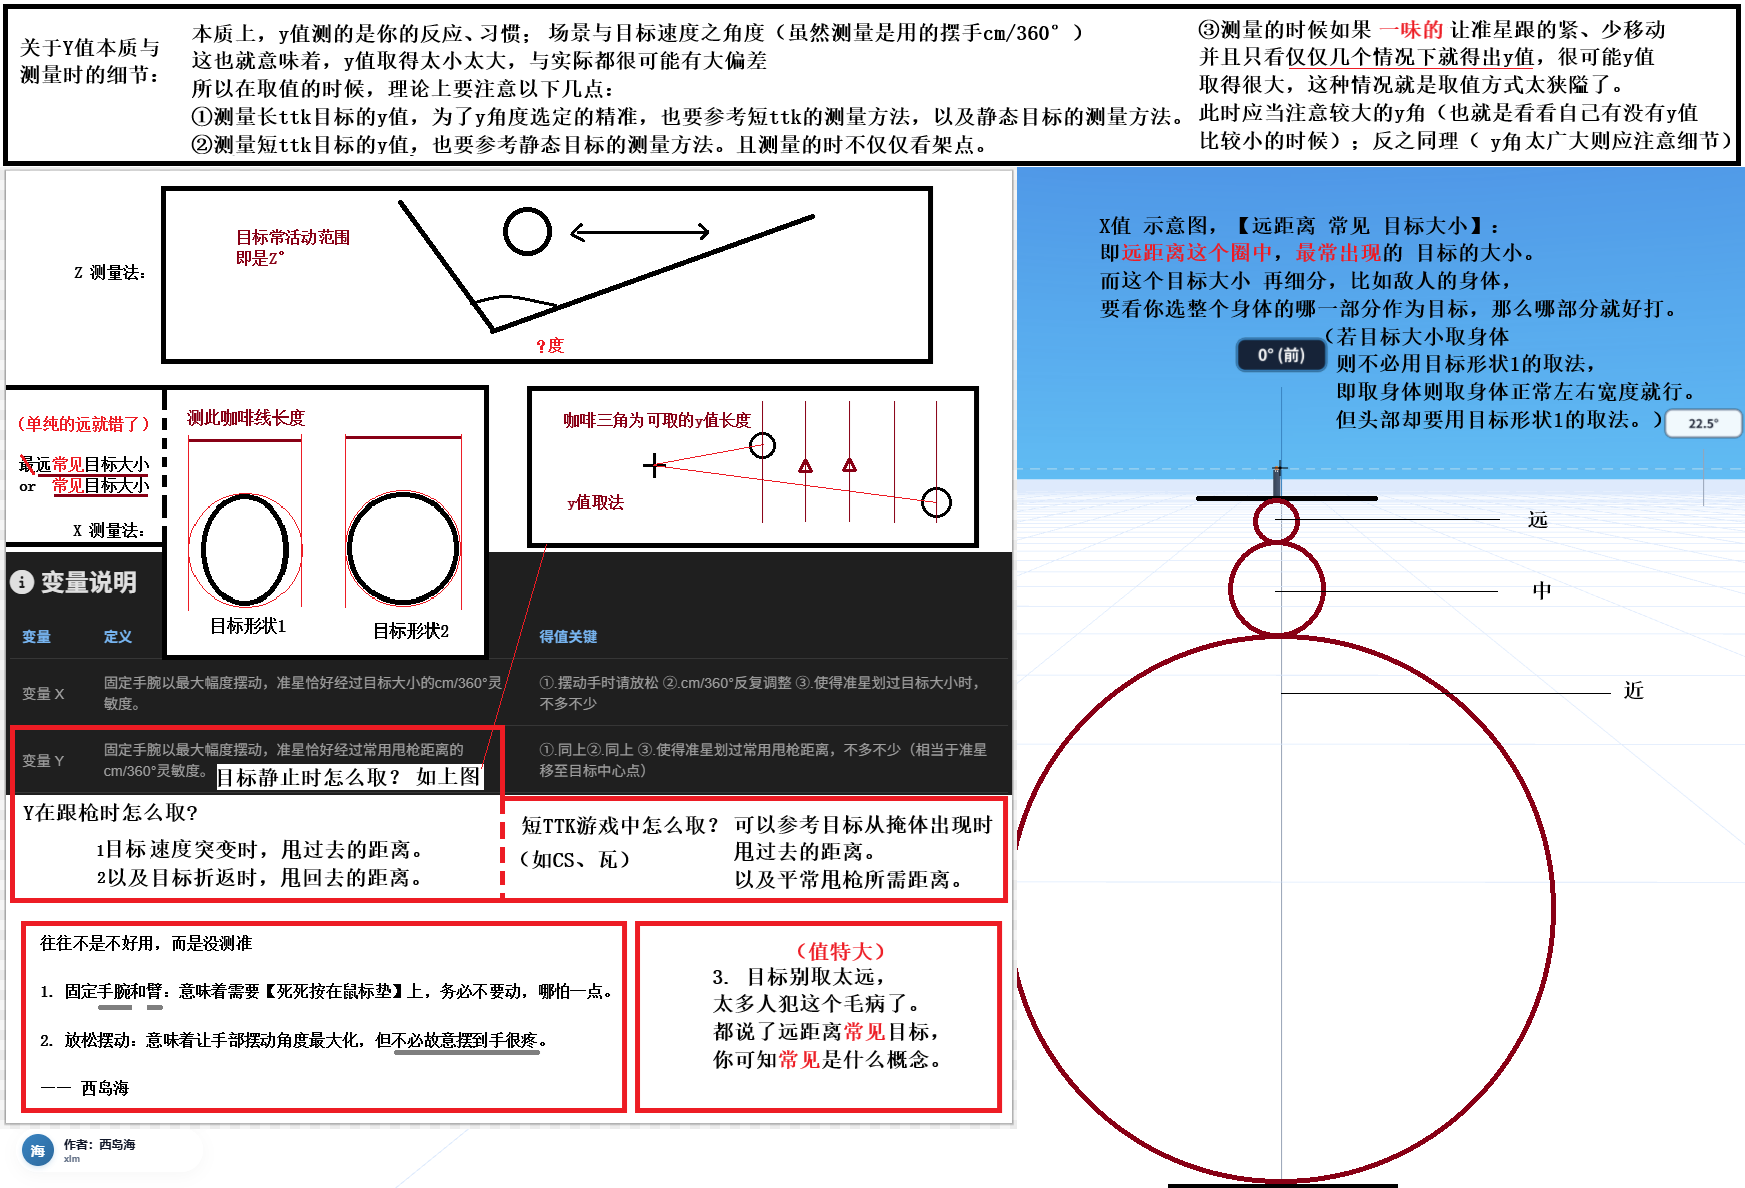
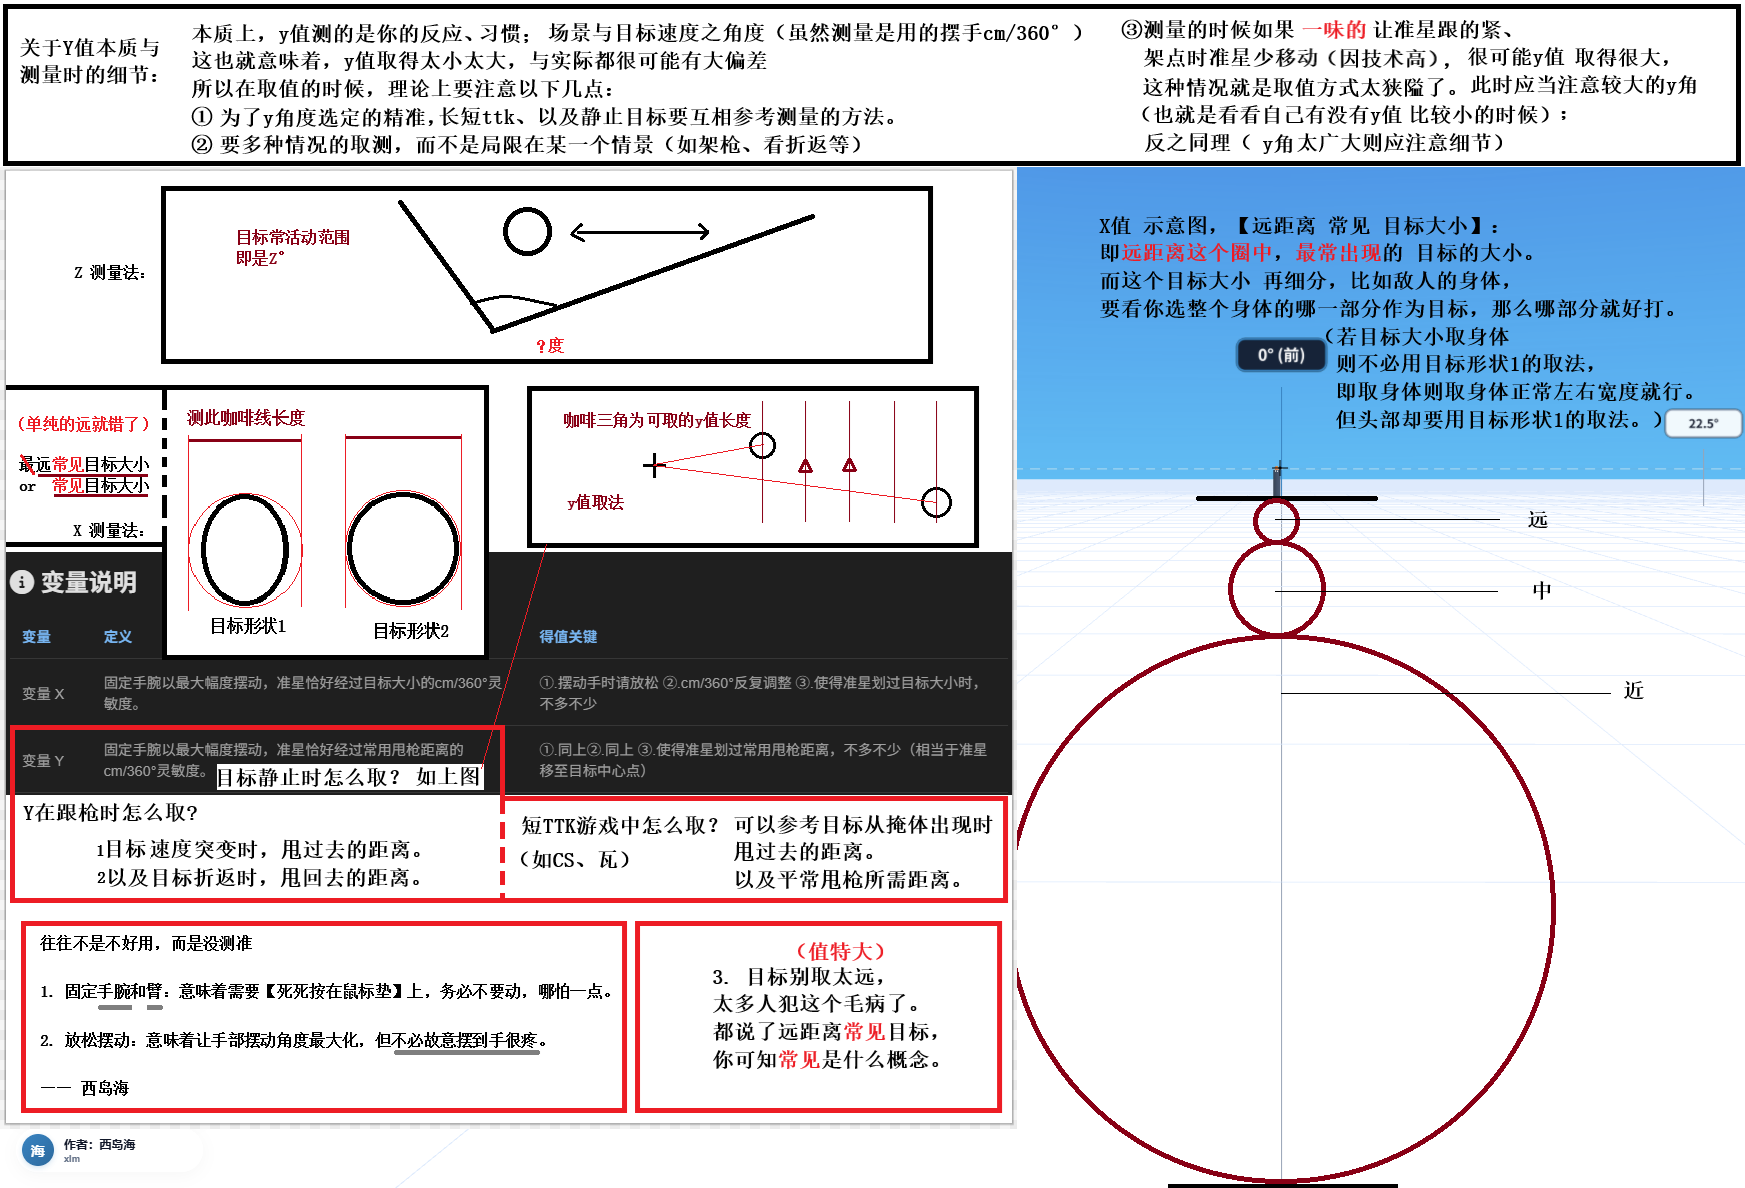
Add files via upload

Changed region(s): [[0.1238, 0.0, 0.9903, 0.1557]]

diff --git a/bdfcaozuo.html b/bdfcaozuo.html
@@ -365,7 +365,7 @@
             <li><span class="badge-sub badge-static">目标静止时</span>准星直接甩到目标中心的距离。</li>
             <li><span class="badge-sub badge-short">短 TTK (CS/瓦)</span>架点（或对枪时），敌人从掩体拉出，向外甩枪修正击杀的距离。</li>
             <li><span class="badge-sub badge-long">长 TTK (Apex/OW)</span>跟枪中目标速度突变或身法折返，准星脱轨后<strong>折返甩回重新吸附</strong>的距离。</li>
-            <li><span>合适的取值：</span>跟枪取法也应参考短TTK和静止，短TTK取法也应参考静止。<br>取值cm/360°太大则应注意自己是不是没有注意广角情况、取值太小则应注意自己是不是没有注意细节。</li>
+            <li><span>合适的取值：</span>跟枪（长TTK）短TTK和静止，取值方法应该互相参考。<br>取值cm/360°太大则应注意自己是不是没有注意广角情况、取值太小则应注意自己是不是没有注意细节。</li>
             <li><strong>四分法与两个咖啡三角：</strong>实战中有两个高频拉枪角（如近端与远端目标）。在两目标间进行<strong>四分法等分</strong>，可取的 Y 长度只有<strong>两个咖啡三角标点（二选一）</strong>：① <strong>靠近准星的点（1/4 处）</strong>：偏向近端高频小角度甩枪。 ② <strong>中点（2/4 处）</strong>：两端折中兼顾。
             </li>
         </ul>
